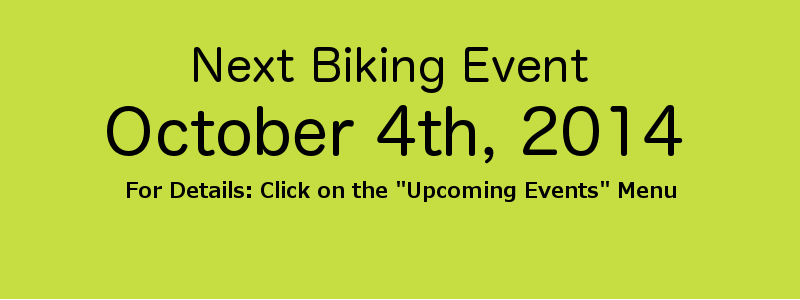
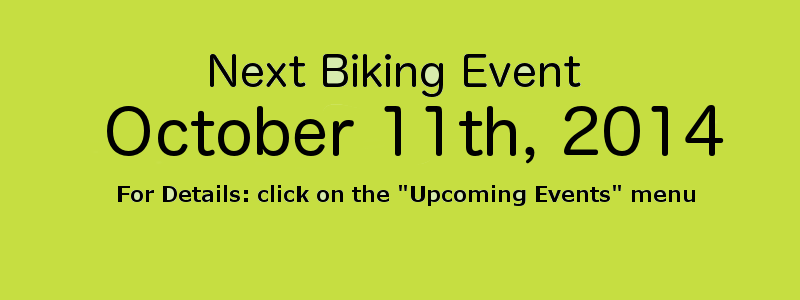
new bike event date

Changed region(s): [[0.2188, 0.15, 0.9062, 0.54], [0.125, 0.6, 0.875, 0.69], [0.0, 0.99, 1.0, 1.0]]

diff --git a/public/UpcomingEventsB.html b/public/UpcomingEventsB.html
@@ -5,7 +5,8 @@
 
 	   <H1 Align="Center">Next Bike Event</H1>
 	   <H2 Align="Center">Bike4Beds Bike to the Beach</H2>
-	   <H3 Align="Center">Saturday October 4th, 2014 - 8:00am</H2>
+	   <H2 Align="center">Due to heavy rains, the bike event has been reschedule to the 11th</H2>
+	   <H3 Align="Center">Saturday October 11th, 2014 - 8:00am</H2>
 
 	<p> Please join us and help us celebrate our seventh year of biking and raising money.  This bike4beds event will raise funds for the Cavaillon Orphanage located in the town of Cavaillon in southern Haiti.  In previous years we have donated funds towards basic necessities for the girls; this year we hope to promote their education.  100% of the funds raised by this event will go towards supporting the Cavaillon Orphanage along with hiring a teacher to help the children learn computer and problem solving skills.  </P>
 
